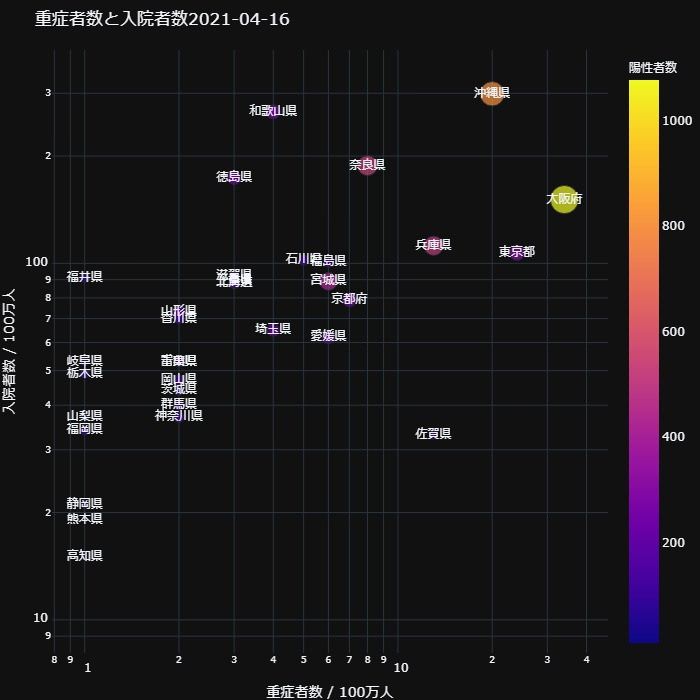
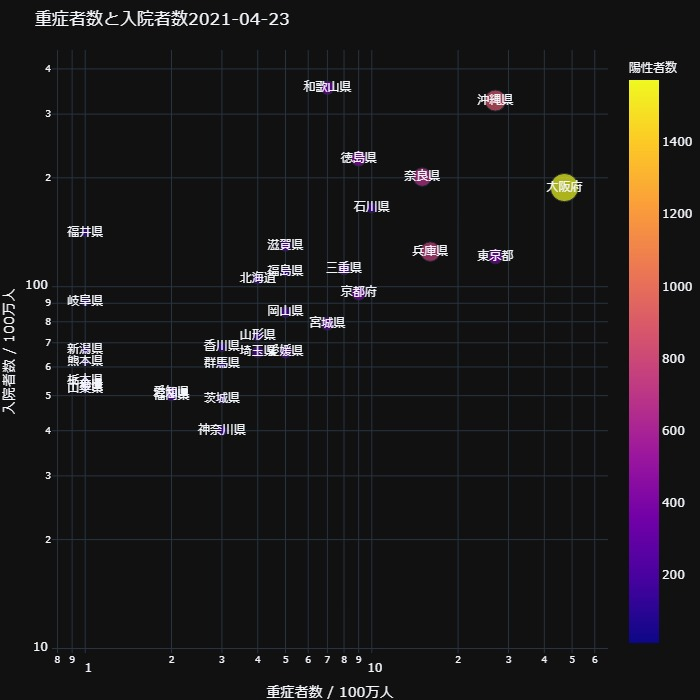
Updated with latest data.

diff --git a/docs/_includes/newpage_00023a.html b/docs/_includes/newpage_00023a.html
@@ -1,1 +1,1 @@
-<div>                            <div id="8e5283be-3799-4869-971b-aa6b225919ab" class="plotly-graph-div" style="height:700px; width:700px;"></div>            <script type="text/javascript">                                    window.PLOTLYENV=window.PLOTLYENV || {};                                    if (document.getElementById("8e5283be-3799-4869-971b-aa6b225919ab")) {                    Plotly.newPlot(                        "8e5283be-3799-4869-971b-aa6b225919ab",                        [{"hovertemplate": "\u4f7f\u7528\u7387=%{x}<br>\u975e\u5165\u9662\u6570=%{y}<br>\u967d\u6027\u8005\u6570=%{marker.color}<br>\u90fd\u9053\u5e9c\u770c\u540d=%{text}<extra></extra>", "legendgroup": "", "marker": {"color": [156, 100, 53, 425, 42, 225, 148, 105, 95, 113, 208, 143, 306, 133, 119, 99, 123, 91, 53, 153, 83, 56, 205, 128, 149, 252, 1077, 501, 533, 266, 144, 10, 128, 34, 30, 255, 128, 207, 24, 103, 90, 33, 22, 30, 58, 41, 801], "coloraxis": "coloraxis", "size": [156, 100, 53, 425, 42, 225, 148, 105, 95, 113, 208, 143, 306, 133, 119, 99, 123, 91, 53, 153, 83, 56, 205, 128, 149, 252, 1077, 501, 533, 266, 144, 10, 128, 34, 30, 255, 128, 207, 24, 103, 90, 33, 22, 30, 58, 41, 801], "sizemode": "area", "sizeref": 2.6925, "symbol": "circle"}, "mode": "markers+text", "name": "", "orientation": "v", "showlegend": false, "text": ["\u5317\u6d77\u9053", "\u9752\u68ee\u770c", "\u5ca9\u624b\u770c", "\u5bae\u57ce\u770c", "\u79cb\u7530\u770c", "\u5c71\u5f62\u770c", "\u798f\u5cf6\u770c", "\u8328\u57ce\u770c", "\u6803\u6728\u770c", "\u7fa4\u99ac\u770c", "\u57fc\u7389\u770c", "\u5343\u8449\u770c", "\u6771\u4eac\u90fd", "\u795e\u5948\u5ddd\u770c", "\u65b0\u6f5f\u770c", "\u5bcc\u5c71\u770c", "\u77f3\u5ddd\u770c", "\u798f\u4e95\u770c", "\u5c71\u68a8\u770c", "\u9577\u91ce\u770c", "\u5c90\u961c\u770c", "\u9759\u5ca1\u770c", "\u611b\u77e5\u770c", "\u4e09\u91cd\u770c", "\u6ecb\u8cc0\u770c", "\u4eac\u90fd\u5e9c", "\u5927\u962a\u5e9c", "\u5175\u5eab\u770c", "\u5948\u826f\u770c", "\u548c\u6b4c\u5c71\u770c", "\u9ce5\u53d6\u770c", "\u5cf6\u6839\u770c", "\u5ca1\u5c71\u770c", "\u5e83\u5cf6\u770c", "\u5c71\u53e3\u770c", "\u5fb3\u5cf6\u770c", "\u9999\u5ddd\u770c", "\u611b\u5a9b\u770c", "\u9ad8\u77e5\u770c", "\u798f\u5ca1\u770c", "\u4f50\u8cc0\u770c", "\u9577\u5d0e\u770c", "\u718a\u672c\u770c", "\u5927\u5206\u770c", "\u5bae\u5d0e\u770c", "\u9e7f\u5150\u5cf6\u770c", "\u6c96\u7e04\u770c"], "type": "scatter", "x": [2600, 2400, 1400, 6100, 900, 3700, 4100, 2100, 2400, 1900, 3200, 2400, 2900, 2200, 3400, 1100, 4600, 2800, 1100, 4100, 1600, 1600, 2500, 4200, 3700, 4600, 6700, 7400, 6800, 6400, 2300, 300, 2200, 1000, 900, 6600, 3300, 3200, 600, 2300, 900, 500, 700, 700, 700, 1000, 8500], "xaxis": "x", "y": [23, 29, 0, 183, 0, 127, 1, 37, 11, 8, 97, 58, 121, 69, 14, 0, 0, 0, 0, 29, 10, 23, 128, 26, 10, 111, 836, 304, 233, 0, 0, 0, 9, 2, 0, 0, 14, 122, 1, 27, 12, 10, 1, 0, 18, 1, 405], "yaxis": "y"}],                        {"coloraxis": {"colorbar": {"title": {"text": "\u967d\u6027\u8005\u6570"}}, "colorscale": [[0.0, "#0d0887"], [0.1111111111111111, "#46039f"], [0.2222222222222222, "#7201a8"], [0.3333333333333333, "#9c179e"], [0.4444444444444444, "#bd3786"], [0.5555555555555556, "#d8576b"], [0.6666666666666666, "#ed7953"], [0.7777777777777778, "#fb9f3a"], [0.8888888888888888, "#fdca26"], [1.0, "#f0f921"]]}, "height": 700, "legend": {"itemsizing": "constant", "tracegroupgap": 0}, "margin": {"b": 0, "l": 0, "r": 0, "t": 50}, "template": {"data": {"bar": [{"error_x": {"color": "#f2f5fa"}, "error_y": {"color": "#f2f5fa"}, "marker": {"line": {"color": "rgb(17,17,17)", "width": 0.5}}, "type": "bar"}], "barpolar": [{"marker": {"line": {"color": "rgb(17,17,17)", "width": 0.5}}, "type": "barpolar"}], "carpet": [{"aaxis": {"endlinecolor": "#A2B1C6", "gridcolor": "#506784", "linecolor": "#506784", "minorgridcolor": "#506784", "startlinecolor": "#A2B1C6"}, "baxis": {"endlinecolor": "#A2B1C6", "gridcolor": "#506784", "linecolor": "#506784", "minorgridcolor": "#506784", "startlinecolor": "#A2B1C6"}, "type": "carpet"}], "choropleth": [{"colorbar": {"outlinewidth": 0, "ticks": ""}, "type": "choropleth"}], "contour": [{"colorbar": {"outlinewidth": 0, "ticks": ""}, "colorscale": [[0.0, "#0d0887"], [0.1111111111111111, "#46039f"], [0.2222222222222222, "#7201a8"], [0.3333333333333333, "#9c179e"], [0.4444444444444444, "#bd3786"], [0.5555555555555556, "#d8576b"], [0.6666666666666666, "#ed7953"], [0.7777777777777778, "#fb9f3a"], [0.8888888888888888, "#fdca26"], [1.0, "#f0f921"]], "type": "contour"}], "contourcarpet": [{"colorbar": {"outlinewidth": 0, "ticks": ""}, "type": "contourcarpet"}], "heatmap": [{"colorbar": {"outlinewidth": 0, "ticks": ""}, "colorscale": [[0.0, "#0d0887"], [0.1111111111111111, "#46039f"], [0.2222222222222222, "#7201a8"], [0.3333333333333333, "#9c179e"], [0.4444444444444444, "#bd3786"], [0.5555555555555556, "#d8576b"], [0.6666666666666666, "#ed7953"], [0.7777777777777778, "#fb9f3a"], [0.8888888888888888, "#fdca26"], [1.0, "#f0f921"]], "type": "heatmap"}], "heatmapgl": [{"colorbar": {"outlinewidth": 0, "ticks": ""}, "colorscale": [[0.0, "#0d0887"], [0.1111111111111111, "#46039f"], [0.2222222222222222, "#7201a8"], [0.3333333333333333, "#9c179e"], [0.4444444444444444, "#bd3786"], [0.5555555555555556, "#d8576b"], [0.6666666666666666, "#ed7953"], [0.7777777777777778, "#fb9f3a"], [0.8888888888888888, "#fdca26"], [1.0, "#f0f921"]], "type": "heatmapgl"}], "histogram": [{"marker": {"colorbar": {"outlinewidth": 0, "ticks": ""}}, "type": "histogram"}], "histogram2d": [{"colorbar": {"outlinewidth": 0, "ticks": ""}, "colorscale": [[0.0, "#0d0887"], [0.1111111111111111, "#46039f"], [0.2222222222222222, "#7201a8"], [0.3333333333333333, "#9c179e"], [0.4444444444444444, "#bd3786"], [0.5555555555555556, "#d8576b"], [0.6666666666666666, "#ed7953"], [0.7777777777777778, "#fb9f3a"], [0.8888888888888888, "#fdca26"], [1.0, "#f0f921"]], "type": "histogram2d"}], "histogram2dcontour": [{"colorbar": {"outlinewidth": 0, "ticks": ""}, "colorscale": [[0.0, "#0d0887"], [0.1111111111111111, "#46039f"], [0.2222222222222222, "#7201a8"], [0.3333333333333333, "#9c179e"], [0.4444444444444444, "#bd3786"], [0.5555555555555556, "#d8576b"], [0.6666666666666666, "#ed7953"], [0.7777777777777778, "#fb9f3a"], [0.8888888888888888, "#fdca26"], [1.0, "#f0f921"]], "type": "histogram2dcontour"}], "mesh3d": [{"colorbar": {"outlinewidth": 0, "ticks": ""}, "type": "mesh3d"}], "parcoords": [{"line": {"colorbar": {"outlinewidth": 0, "ticks": ""}}, "type": "parcoords"}], "pie": [{"automargin": true, "type": "pie"}], "scatter": [{"marker": {"line": {"color": "#283442"}}, "type": "scatter"}], "scatter3d": [{"line": {"colorbar": {"outlinewidth": 0, "ticks": ""}}, "marker": {"colorbar": {"outlinewidth": 0, "ticks": ""}}, "type": "scatter3d"}], "scattercarpet": [{"marker": {"colorbar": {"outlinewidth": 0, "ticks": ""}}, "type": "scattercarpet"}], "scattergeo": [{"marker": {"colorbar": {"outlinewidth": 0, "ticks": ""}}, "type": "scattergeo"}], "scattergl": [{"marker": {"line": {"color": "#283442"}}, "type": "scattergl"}], "scattermapbox": [{"marker": {"colorbar": {"outlinewidth": 0, "ticks": ""}}, "type": "scattermapbox"}], "scatterpolar": [{"marker": {"colorbar": {"outlinewidth": 0, "ticks": ""}}, "type": "scatterpolar"}], "scatterpolargl": [{"marker": {"colorbar": {"outlinewidth": 0, "ticks": ""}}, "type": "scatterpolargl"}], "scatterternary": [{"marker": {"colorbar": {"outlinewidth": 0, "ticks": ""}}, "type": "scatterternary"}], "surface": [{"colorbar": {"outlinewidth": 0, "ticks": ""}, "colorscale": [[0.0, "#0d0887"], [0.1111111111111111, "#46039f"], [0.2222222222222222, "#7201a8"], [0.3333333333333333, "#9c179e"], [0.4444444444444444, "#bd3786"], [0.5555555555555556, "#d8576b"], [0.6666666666666666, "#ed7953"], [0.7777777777777778, "#fb9f3a"], [0.8888888888888888, "#fdca26"], [1.0, "#f0f921"]], "type": "surface"}], "table": [{"cells": {"fill": {"color": "#506784"}, "line": {"color": "rgb(17,17,17)"}}, "header": {"fill": {"color": "#2a3f5f"}, "line": {"color": "rgb(17,17,17)"}}, "type": "table"}]}, "layout": {"annotationdefaults": {"arrowcolor": "#f2f5fa", "arrowhead": 0, "arrowwidth": 1}, "autotypenumbers": "strict", "coloraxis": {"colorbar": {"outlinewidth": 0, "ticks": ""}}, "colorscale": {"diverging": [[0, "#8e0152"], [0.1, "#c51b7d"], [0.2, "#de77ae"], [0.3, "#f1b6da"], [0.4, "#fde0ef"], [0.5, "#f7f7f7"], [0.6, "#e6f5d0"], [0.7, "#b8e186"], [0.8, "#7fbc41"], [0.9, "#4d9221"], [1, "#276419"]], "sequential": [[0.0, "#0d0887"], [0.1111111111111111, "#46039f"], [0.2222222222222222, "#7201a8"], [0.3333333333333333, "#9c179e"], [0.4444444444444444, "#bd3786"], [0.5555555555555556, "#d8576b"], [0.6666666666666666, "#ed7953"], [0.7777777777777778, "#fb9f3a"], [0.8888888888888888, "#fdca26"], [1.0, "#f0f921"]], "sequentialminus": [[0.0, "#0d0887"], [0.1111111111111111, "#46039f"], [0.2222222222222222, "#7201a8"], [0.3333333333333333, "#9c179e"], [0.4444444444444444, "#bd3786"], [0.5555555555555556, "#d8576b"], [0.6666666666666666, "#ed7953"], [0.7777777777777778, "#fb9f3a"], [0.8888888888888888, "#fdca26"], [1.0, "#f0f921"]]}, "colorway": ["#636efa", "#EF553B", "#00cc96", "#ab63fa", "#FFA15A", "#19d3f3", "#FF6692", "#B6E880", "#FF97FF", "#FECB52"], "font": {"color": "#f2f5fa"}, "geo": {"bgcolor": "rgb(17,17,17)", "lakecolor": "rgb(17,17,17)", "landcolor": "rgb(17,17,17)", "showlakes": true, "showland": true, "subunitcolor": "#506784"}, "hoverlabel": {"align": "left"}, "hovermode": "closest", "mapbox": {"style": "dark"}, "paper_bgcolor": "rgb(17,17,17)", "plot_bgcolor": "rgb(17,17,17)", "polar": {"angularaxis": {"gridcolor": "#506784", "linecolor": "#506784", "ticks": ""}, "bgcolor": "rgb(17,17,17)", "radialaxis": {"gridcolor": "#506784", "linecolor": "#506784", "ticks": ""}}, "scene": {"xaxis": {"backgroundcolor": "rgb(17,17,17)", "gridcolor": "#506784", "gridwidth": 2, "linecolor": "#506784", "showbackground": true, "ticks": "", "zerolinecolor": "#C8D4E3"}, "yaxis": {"backgroundcolor": "rgb(17,17,17)", "gridcolor": "#506784", "gridwidth": 2, "linecolor": "#506784", "showbackground": true, "ticks": "", "zerolinecolor": "#C8D4E3"}, "zaxis": {"backgroundcolor": "rgb(17,17,17)", "gridcolor": "#506784", "gridwidth": 2, "linecolor": "#506784", "showbackground": true, "ticks": "", "zerolinecolor": "#C8D4E3"}}, "shapedefaults": {"line": {"color": "#f2f5fa"}}, "sliderdefaults": {"bgcolor": "#C8D4E3", "bordercolor": "rgb(17,17,17)", "borderwidth": 1, "tickwidth": 0}, "ternary": {"aaxis": {"gridcolor": "#506784", "linecolor": "#506784", "ticks": ""}, "baxis": {"gridcolor": "#506784", "linecolor": "#506784", "ticks": ""}, "bgcolor": "rgb(17,17,17)", "caxis": {"gridcolor": "#506784", "linecolor": "#506784", "ticks": ""}}, "title": {"x": 0.05}, "updatemenudefaults": {"bgcolor": "#506784", "borderwidth": 0}, "xaxis": {"automargin": true, "gridcolor": "#283442", "linecolor": "#506784", "ticks": "", "title": {"standoff": 15}, "zerolinecolor": "#283442", "zerolinewidth": 2}, "yaxis": {"automargin": true, "gridcolor": "#283442", "linecolor": "#506784", "ticks": "", "title": {"standoff": 15}, "zerolinecolor": "#283442", "zerolinewidth": 2}}}, "title": {"text": "\u75c5\u5e8a\u4f7f\u7528\u7387\u3068\u975e\u5165\u9662\u8005\u65702021-04-16"}, "width": 700, "xaxis": {"anchor": "y", "domain": [0.0, 1.0], "title": {"text": "\u75c5\u5e8a\u4f7f\u7528\u7387 [%]"}}, "yaxis": {"anchor": "x", "domain": [0.0, 1.0], "title": {"text": "\u975e\u5165\u9662\u8005\u6570 / 100\u4e07\u4eba"}, "type": "log"}},                        {"responsive": true}                    )                };                            </script>        </div>
+<div>                            <div id="0eb2dfb6-1591-4d71-908f-1d80eed0ddca" class="plotly-graph-div" style="height:700px; width:700px;"></div>            <script type="text/javascript">                                    window.PLOTLYENV=window.PLOTLYENV || {};                                    if (document.getElementById("0eb2dfb6-1591-4d71-908f-1d80eed0ddca")) {                    Plotly.newPlot(                        "0eb2dfb6-1591-4d71-908f-1d80eed0ddca",                        [{"hovertemplate": "\u4f7f\u7528\u7387=%{x}<br>\u975e\u5165\u9662\u6570=%{y}<br>\u967d\u6027\u8005\u6570=%{marker.color}<br>\u90fd\u9053\u5e9c\u770c\u540d=%{text}<extra></extra>", "legendgroup": "", "marker": {"color": [193, 128, 36, 327, 58, 178, 158, 151, 90, 140, 245, 186, 393, 175, 131, 125, 189, 141, 77, 189, 132, 62, 291, 269, 251, 386, 1572, 749, 673, 355, 153, 12, 206, 70, 102, 441, 144, 276, 37, 216, 124, 95, 98, 34, 49, 46, 866], "coloraxis": "coloraxis", "size": [193, 128, 36, 327, 58, 178, 158, 151, 90, 140, 245, 186, 393, 175, 131, 125, 189, 141, 77, 189, 132, 62, 291, 269, 251, 386, 1572, 749, 673, 355, 153, 12, 206, 70, 102, 441, 144, 276, 37, 216, 124, 95, 98, 34, 49, 46, 866], "sizemode": "area", "sizeref": 3.93, "symbol": "circle"}, "mode": "markers+text", "name": "", "orientation": "v", "showlegend": false, "text": ["\u5317\u6d77\u9053", "\u9752\u68ee\u770c", "\u5ca9\u624b\u770c", "\u5bae\u57ce\u770c", "\u79cb\u7530\u770c", "\u5c71\u5f62\u770c", "\u798f\u5cf6\u770c", "\u8328\u57ce\u770c", "\u6803\u6728\u770c", "\u7fa4\u99ac\u770c", "\u57fc\u7389\u770c", "\u5343\u8449\u770c", "\u6771\u4eac\u90fd", "\u795e\u5948\u5ddd\u770c", "\u65b0\u6f5f\u770c", "\u5bcc\u5c71\u770c", "\u77f3\u5ddd\u770c", "\u798f\u4e95\u770c", "\u5c71\u68a8\u770c", "\u9577\u91ce\u770c", "\u5c90\u961c\u770c", "\u9759\u5ca1\u770c", "\u611b\u77e5\u770c", "\u4e09\u91cd\u770c", "\u6ecb\u8cc0\u770c", "\u4eac\u90fd\u5e9c", "\u5927\u962a\u5e9c", "\u5175\u5eab\u770c", "\u5948\u826f\u770c", "\u548c\u6b4c\u5c71\u770c", "\u9ce5\u53d6\u770c", "\u5cf6\u6839\u770c", "\u5ca1\u5c71\u770c", "\u5e83\u5cf6\u770c", "\u5c71\u53e3\u770c", "\u5fb3\u5cf6\u770c", "\u9999\u5ddd\u770c", "\u611b\u5a9b\u770c", "\u9ad8\u77e5\u770c", "\u798f\u5ca1\u770c", "\u4f50\u8cc0\u770c", "\u9577\u5d0e\u770c", "\u718a\u672c\u770c", "\u5927\u5206\u770c", "\u5bae\u5d0e\u770c", "\u9e7f\u5150\u5cf6\u770c", "\u6c96\u7e04\u770c"], "type": "scatter", "x": [31, 28, 9, 54, 14, 37, 45, 23, 27, 29, 32, 25, 33, 21, 28, 15, 74, 44, 15, 48, 27, 17, 32, 52, 52, 54, 82, 83, 72, 86, 24, 4, 40, 16, 23, 73, 32, 34, 10, 32, 11, 14, 22, 9, 11, 15, 88], "xaxis": "x", "y": [37, 38, 0, 129, 2, 83, 15, 65, 7, 21, 128, 80, 173, 98, 41, 3, 0, 0, 0, 33, 11, 22, 194, 147, 23, 217, 1247, 533, 334, 0, 0, 0, 41, 8, 0, 0, 34, 177, 2, 72, 0, 23, 10, 0, 11, 1, 392], "yaxis": "y"}],                        {"coloraxis": {"colorbar": {"title": {"text": "\u967d\u6027\u8005\u6570"}}, "colorscale": [[0.0, "#0d0887"], [0.1111111111111111, "#46039f"], [0.2222222222222222, "#7201a8"], [0.3333333333333333, "#9c179e"], [0.4444444444444444, "#bd3786"], [0.5555555555555556, "#d8576b"], [0.6666666666666666, "#ed7953"], [0.7777777777777778, "#fb9f3a"], [0.8888888888888888, "#fdca26"], [1.0, "#f0f921"]]}, "height": 700, "legend": {"itemsizing": "constant", "tracegroupgap": 0}, "margin": {"b": 0, "l": 0, "r": 0, "t": 50}, "template": {"data": {"bar": [{"error_x": {"color": "#f2f5fa"}, "error_y": {"color": "#f2f5fa"}, "marker": {"line": {"color": "rgb(17,17,17)", "width": 0.5}}, "type": "bar"}], "barpolar": [{"marker": {"line": {"color": "rgb(17,17,17)", "width": 0.5}}, "type": "barpolar"}], "carpet": [{"aaxis": {"endlinecolor": "#A2B1C6", "gridcolor": "#506784", "linecolor": "#506784", "minorgridcolor": "#506784", "startlinecolor": "#A2B1C6"}, "baxis": {"endlinecolor": "#A2B1C6", "gridcolor": "#506784", "linecolor": "#506784", "minorgridcolor": "#506784", "startlinecolor": "#A2B1C6"}, "type": "carpet"}], "choropleth": [{"colorbar": {"outlinewidth": 0, "ticks": ""}, "type": "choropleth"}], "contour": [{"colorbar": {"outlinewidth": 0, "ticks": ""}, "colorscale": [[0.0, "#0d0887"], [0.1111111111111111, "#46039f"], [0.2222222222222222, "#7201a8"], [0.3333333333333333, "#9c179e"], [0.4444444444444444, "#bd3786"], [0.5555555555555556, "#d8576b"], [0.6666666666666666, "#ed7953"], [0.7777777777777778, "#fb9f3a"], [0.8888888888888888, "#fdca26"], [1.0, "#f0f921"]], "type": "contour"}], "contourcarpet": [{"colorbar": {"outlinewidth": 0, "ticks": ""}, "type": "contourcarpet"}], "heatmap": [{"colorbar": {"outlinewidth": 0, "ticks": ""}, "colorscale": [[0.0, "#0d0887"], [0.1111111111111111, "#46039f"], [0.2222222222222222, "#7201a8"], [0.3333333333333333, "#9c179e"], [0.4444444444444444, "#bd3786"], [0.5555555555555556, "#d8576b"], [0.6666666666666666, "#ed7953"], [0.7777777777777778, "#fb9f3a"], [0.8888888888888888, "#fdca26"], [1.0, "#f0f921"]], "type": "heatmap"}], "heatmapgl": [{"colorbar": {"outlinewidth": 0, "ticks": ""}, "colorscale": [[0.0, "#0d0887"], [0.1111111111111111, "#46039f"], [0.2222222222222222, "#7201a8"], [0.3333333333333333, "#9c179e"], [0.4444444444444444, "#bd3786"], [0.5555555555555556, "#d8576b"], [0.6666666666666666, "#ed7953"], [0.7777777777777778, "#fb9f3a"], [0.8888888888888888, "#fdca26"], [1.0, "#f0f921"]], "type": "heatmapgl"}], "histogram": [{"marker": {"colorbar": {"outlinewidth": 0, "ticks": ""}}, "type": "histogram"}], "histogram2d": [{"colorbar": {"outlinewidth": 0, "ticks": ""}, "colorscale": [[0.0, "#0d0887"], [0.1111111111111111, "#46039f"], [0.2222222222222222, "#7201a8"], [0.3333333333333333, "#9c179e"], [0.4444444444444444, "#bd3786"], [0.5555555555555556, "#d8576b"], [0.6666666666666666, "#ed7953"], [0.7777777777777778, "#fb9f3a"], [0.8888888888888888, "#fdca26"], [1.0, "#f0f921"]], "type": "histogram2d"}], "histogram2dcontour": [{"colorbar": {"outlinewidth": 0, "ticks": ""}, "colorscale": [[0.0, "#0d0887"], [0.1111111111111111, "#46039f"], [0.2222222222222222, "#7201a8"], [0.3333333333333333, "#9c179e"], [0.4444444444444444, "#bd3786"], [0.5555555555555556, "#d8576b"], [0.6666666666666666, "#ed7953"], [0.7777777777777778, "#fb9f3a"], [0.8888888888888888, "#fdca26"], [1.0, "#f0f921"]], "type": "histogram2dcontour"}], "mesh3d": [{"colorbar": {"outlinewidth": 0, "ticks": ""}, "type": "mesh3d"}], "parcoords": [{"line": {"colorbar": {"outlinewidth": 0, "ticks": ""}}, "type": "parcoords"}], "pie": [{"automargin": true, "type": "pie"}], "scatter": [{"marker": {"line": {"color": "#283442"}}, "type": "scatter"}], "scatter3d": [{"line": {"colorbar": {"outlinewidth": 0, "ticks": ""}}, "marker": {"colorbar": {"outlinewidth": 0, "ticks": ""}}, "type": "scatter3d"}], "scattercarpet": [{"marker": {"colorbar": {"outlinewidth": 0, "ticks": ""}}, "type": "scattercarpet"}], "scattergeo": [{"marker": {"colorbar": {"outlinewidth": 0, "ticks": ""}}, "type": "scattergeo"}], "scattergl": [{"marker": {"line": {"color": "#283442"}}, "type": "scattergl"}], "scattermapbox": [{"marker": {"colorbar": {"outlinewidth": 0, "ticks": ""}}, "type": "scattermapbox"}], "scatterpolar": [{"marker": {"colorbar": {"outlinewidth": 0, "ticks": ""}}, "type": "scatterpolar"}], "scatterpolargl": [{"marker": {"colorbar": {"outlinewidth": 0, "ticks": ""}}, "type": "scatterpolargl"}], "scatterternary": [{"marker": {"colorbar": {"outlinewidth": 0, "ticks": ""}}, "type": "scatterternary"}], "surface": [{"colorbar": {"outlinewidth": 0, "ticks": ""}, "colorscale": [[0.0, "#0d0887"], [0.1111111111111111, "#46039f"], [0.2222222222222222, "#7201a8"], [0.3333333333333333, "#9c179e"], [0.4444444444444444, "#bd3786"], [0.5555555555555556, "#d8576b"], [0.6666666666666666, "#ed7953"], [0.7777777777777778, "#fb9f3a"], [0.8888888888888888, "#fdca26"], [1.0, "#f0f921"]], "type": "surface"}], "table": [{"cells": {"fill": {"color": "#506784"}, "line": {"color": "rgb(17,17,17)"}}, "header": {"fill": {"color": "#2a3f5f"}, "line": {"color": "rgb(17,17,17)"}}, "type": "table"}]}, "layout": {"annotationdefaults": {"arrowcolor": "#f2f5fa", "arrowhead": 0, "arrowwidth": 1}, "autotypenumbers": "strict", "coloraxis": {"colorbar": {"outlinewidth": 0, "ticks": ""}}, "colorscale": {"diverging": [[0, "#8e0152"], [0.1, "#c51b7d"], [0.2, "#de77ae"], [0.3, "#f1b6da"], [0.4, "#fde0ef"], [0.5, "#f7f7f7"], [0.6, "#e6f5d0"], [0.7, "#b8e186"], [0.8, "#7fbc41"], [0.9, "#4d9221"], [1, "#276419"]], "sequential": [[0.0, "#0d0887"], [0.1111111111111111, "#46039f"], [0.2222222222222222, "#7201a8"], [0.3333333333333333, "#9c179e"], [0.4444444444444444, "#bd3786"], [0.5555555555555556, "#d8576b"], [0.6666666666666666, "#ed7953"], [0.7777777777777778, "#fb9f3a"], [0.8888888888888888, "#fdca26"], [1.0, "#f0f921"]], "sequentialminus": [[0.0, "#0d0887"], [0.1111111111111111, "#46039f"], [0.2222222222222222, "#7201a8"], [0.3333333333333333, "#9c179e"], [0.4444444444444444, "#bd3786"], [0.5555555555555556, "#d8576b"], [0.6666666666666666, "#ed7953"], [0.7777777777777778, "#fb9f3a"], [0.8888888888888888, "#fdca26"], [1.0, "#f0f921"]]}, "colorway": ["#636efa", "#EF553B", "#00cc96", "#ab63fa", "#FFA15A", "#19d3f3", "#FF6692", "#B6E880", "#FF97FF", "#FECB52"], "font": {"color": "#f2f5fa"}, "geo": {"bgcolor": "rgb(17,17,17)", "lakecolor": "rgb(17,17,17)", "landcolor": "rgb(17,17,17)", "showlakes": true, "showland": true, "subunitcolor": "#506784"}, "hoverlabel": {"align": "left"}, "hovermode": "closest", "mapbox": {"style": "dark"}, "paper_bgcolor": "rgb(17,17,17)", "plot_bgcolor": "rgb(17,17,17)", "polar": {"angularaxis": {"gridcolor": "#506784", "linecolor": "#506784", "ticks": ""}, "bgcolor": "rgb(17,17,17)", "radialaxis": {"gridcolor": "#506784", "linecolor": "#506784", "ticks": ""}}, "scene": {"xaxis": {"backgroundcolor": "rgb(17,17,17)", "gridcolor": "#506784", "gridwidth": 2, "linecolor": "#506784", "showbackground": true, "ticks": "", "zerolinecolor": "#C8D4E3"}, "yaxis": {"backgroundcolor": "rgb(17,17,17)", "gridcolor": "#506784", "gridwidth": 2, "linecolor": "#506784", "showbackground": true, "ticks": "", "zerolinecolor": "#C8D4E3"}, "zaxis": {"backgroundcolor": "rgb(17,17,17)", "gridcolor": "#506784", "gridwidth": 2, "linecolor": "#506784", "showbackground": true, "ticks": "", "zerolinecolor": "#C8D4E3"}}, "shapedefaults": {"line": {"color": "#f2f5fa"}}, "sliderdefaults": {"bgcolor": "#C8D4E3", "bordercolor": "rgb(17,17,17)", "borderwidth": 1, "tickwidth": 0}, "ternary": {"aaxis": {"gridcolor": "#506784", "linecolor": "#506784", "ticks": ""}, "baxis": {"gridcolor": "#506784", "linecolor": "#506784", "ticks": ""}, "bgcolor": "rgb(17,17,17)", "caxis": {"gridcolor": "#506784", "linecolor": "#506784", "ticks": ""}}, "title": {"x": 0.05}, "updatemenudefaults": {"bgcolor": "#506784", "borderwidth": 0}, "xaxis": {"automargin": true, "gridcolor": "#283442", "linecolor": "#506784", "ticks": "", "title": {"standoff": 15}, "zerolinecolor": "#283442", "zerolinewidth": 2}, "yaxis": {"automargin": true, "gridcolor": "#283442", "linecolor": "#506784", "ticks": "", "title": {"standoff": 15}, "zerolinecolor": "#283442", "zerolinewidth": 2}}}, "title": {"text": "\u75c5\u5e8a\u4f7f\u7528\u7387\u3068\u975e\u5165\u9662\u8005\u65702021-04-23"}, "width": 700, "xaxis": {"anchor": "y", "domain": [0.0, 1.0], "title": {"text": "\u75c5\u5e8a\u4f7f\u7528\u7387 [%]"}}, "yaxis": {"anchor": "x", "domain": [0.0, 1.0], "title": {"text": "\u975e\u5165\u9662\u8005\u6570 / 100\u4e07\u4eba"}, "type": "log"}},                        {"responsive": true}                    )                };                            </script>        </div>

diff --git a/docs/_includes/newpage_00023b.html b/docs/_includes/newpage_00023b.html
@@ -1,1 +1,1 @@
-<div>                            <div id="47320995-ea54-44ca-af6a-603a0d520d64" class="plotly-graph-div" style="height:700px; width:700px;"></div>            <script type="text/javascript">                                    window.PLOTLYENV=window.PLOTLYENV || {};                                    if (document.getElementById("47320995-ea54-44ca-af6a-603a0d520d64")) {                    Plotly.newPlot(                        "47320995-ea54-44ca-af6a-603a0d520d64",                        [{"hovertemplate": "\u91cd\u75c7\u8005\u6570=%{x}<br>\u5165\u9662\u8005\u6570=%{y}<br>\u967d\u6027\u8005\u6570=%{marker.color}<br>\u90fd\u9053\u5e9c\u770c\u540d=%{text}<extra></extra>", "legendgroup": "", "marker": {"color": [156, 100, 53, 425, 42, 225, 148, 105, 95, 113, 208, 143, 306, 133, 119, 99, 123, 91, 53, 153, 83, 56, 205, 128, 149, 252, 1077, 501, 533, 266, 144, 10, 128, 34, 30, 255, 128, 207, 24, 103, 90, 33, 22, 30, 58, 41, 801], "coloraxis": "coloraxis", "size": [156, 100, 53, 425, 42, 225, 148, 105, 95, 113, 208, 143, 306, 133, 119, 99, 123, 91, 53, 153, 83, 56, 205, 128, 149, 252, 1077, 501, 533, 266, 144, 10, 128, 34, 30, 255, 128, 207, 24, 103, 90, 33, 22, 30, 58, 41, 801], "sizemode": "area", "sizeref": 2.6925, "symbol": "circle"}, "mode": "markers+text", "name": "", "orientation": "v", "showlegend": false, "text": ["\u5317\u6d77\u9053", "\u9752\u68ee\u770c", "\u5ca9\u624b\u770c", "\u5bae\u57ce\u770c", "\u79cb\u7530\u770c", "\u5c71\u5f62\u770c", "\u798f\u5cf6\u770c", "\u8328\u57ce\u770c", "\u6803\u6728\u770c", "\u7fa4\u99ac\u770c", "\u57fc\u7389\u770c", "\u5343\u8449\u770c", "\u6771\u4eac\u90fd", "\u795e\u5948\u5ddd\u770c", "\u65b0\u6f5f\u770c", "\u5bcc\u5c71\u770c", "\u77f3\u5ddd\u770c", "\u798f\u4e95\u770c", "\u5c71\u68a8\u770c", "\u9577\u91ce\u770c", "\u5c90\u961c\u770c", "\u9759\u5ca1\u770c", "\u611b\u77e5\u770c", "\u4e09\u91cd\u770c", "\u6ecb\u8cc0\u770c", "\u4eac\u90fd\u5e9c", "\u5927\u962a\u5e9c", "\u5175\u5eab\u770c", "\u5948\u826f\u770c", "\u548c\u6b4c\u5c71\u770c", "\u9ce5\u53d6\u770c", "\u5cf6\u6839\u770c", "\u5ca1\u5c71\u770c", "\u5e83\u5cf6\u770c", "\u5c71\u53e3\u770c", "\u5fb3\u5cf6\u770c", "\u9999\u5ddd\u770c", "\u611b\u5a9b\u770c", "\u9ad8\u77e5\u770c", "\u798f\u5ca1\u770c", "\u4f50\u8cc0\u770c", "\u9577\u5d0e\u770c", "\u718a\u672c\u770c", "\u5927\u5206\u770c", "\u5bae\u5d0e\u770c", "\u9e7f\u5150\u5cf6\u770c", "\u6c96\u7e04\u770c"], "type": "scatter", "x": [3, 0, 0, 6, 0, 2, 6, 2, 1, 2, 4, 2, 24, 2, 0, 2, 5, 1, 1, 0, 1, 1, 0, 3, 3, 7, 34, 13, 8, 4, 0, 0, 2, 0, 0, 3, 2, 6, 1, 1, 13, 0, 1, 0, 0, 0, 20], "xaxis": "x", "y": [88, 35, 40, 89, 19, 73, 101, 44, 49, 40, 65, 53, 107, 37, 82, 53, 102, 91, 37, 84, 53, 21, 40, 89, 92, 79, 151, 112, 188, 266, 127, 10, 47, 16, 29, 174, 70, 62, 15, 34, 33, 14, 19, 23, 19, 23, 299], "yaxis": "y"}],                        {"coloraxis": {"colorbar": {"title": {"text": "\u967d\u6027\u8005\u6570"}}, "colorscale": [[0.0, "#0d0887"], [0.1111111111111111, "#46039f"], [0.2222222222222222, "#7201a8"], [0.3333333333333333, "#9c179e"], [0.4444444444444444, "#bd3786"], [0.5555555555555556, "#d8576b"], [0.6666666666666666, "#ed7953"], [0.7777777777777778, "#fb9f3a"], [0.8888888888888888, "#fdca26"], [1.0, "#f0f921"]]}, "height": 700, "legend": {"itemsizing": "constant", "tracegroupgap": 0}, "margin": {"b": 0, "l": 0, "r": 0, "t": 50}, "template": {"data": {"bar": [{"error_x": {"color": "#f2f5fa"}, "error_y": {"color": "#f2f5fa"}, "marker": {"line": {"color": "rgb(17,17,17)", "width": 0.5}}, "type": "bar"}], "barpolar": [{"marker": {"line": {"color": "rgb(17,17,17)", "width": 0.5}}, "type": "barpolar"}], "carpet": [{"aaxis": {"endlinecolor": "#A2B1C6", "gridcolor": "#506784", "linecolor": "#506784", "minorgridcolor": "#506784", "startlinecolor": "#A2B1C6"}, "baxis": {"endlinecolor": "#A2B1C6", "gridcolor": "#506784", "linecolor": "#506784", "minorgridcolor": "#506784", "startlinecolor": "#A2B1C6"}, "type": "carpet"}], "choropleth": [{"colorbar": {"outlinewidth": 0, "ticks": ""}, "type": "choropleth"}], "contour": [{"colorbar": {"outlinewidth": 0, "ticks": ""}, "colorscale": [[0.0, "#0d0887"], [0.1111111111111111, "#46039f"], [0.2222222222222222, "#7201a8"], [0.3333333333333333, "#9c179e"], [0.4444444444444444, "#bd3786"], [0.5555555555555556, "#d8576b"], [0.6666666666666666, "#ed7953"], [0.7777777777777778, "#fb9f3a"], [0.8888888888888888, "#fdca26"], [1.0, "#f0f921"]], "type": "contour"}], "contourcarpet": [{"colorbar": {"outlinewidth": 0, "ticks": ""}, "type": "contourcarpet"}], "heatmap": [{"colorbar": {"outlinewidth": 0, "ticks": ""}, "colorscale": [[0.0, "#0d0887"], [0.1111111111111111, "#46039f"], [0.2222222222222222, "#7201a8"], [0.3333333333333333, "#9c179e"], [0.4444444444444444, "#bd3786"], [0.5555555555555556, "#d8576b"], [0.6666666666666666, "#ed7953"], [0.7777777777777778, "#fb9f3a"], [0.8888888888888888, "#fdca26"], [1.0, "#f0f921"]], "type": "heatmap"}], "heatmapgl": [{"colorbar": {"outlinewidth": 0, "ticks": ""}, "colorscale": [[0.0, "#0d0887"], [0.1111111111111111, "#46039f"], [0.2222222222222222, "#7201a8"], [0.3333333333333333, "#9c179e"], [0.4444444444444444, "#bd3786"], [0.5555555555555556, "#d8576b"], [0.6666666666666666, "#ed7953"], [0.7777777777777778, "#fb9f3a"], [0.8888888888888888, "#fdca26"], [1.0, "#f0f921"]], "type": "heatmapgl"}], "histogram": [{"marker": {"colorbar": {"outlinewidth": 0, "ticks": ""}}, "type": "histogram"}], "histogram2d": [{"colorbar": {"outlinewidth": 0, "ticks": ""}, "colorscale": [[0.0, "#0d0887"], [0.1111111111111111, "#46039f"], [0.2222222222222222, "#7201a8"], [0.3333333333333333, "#9c179e"], [0.4444444444444444, "#bd3786"], [0.5555555555555556, "#d8576b"], [0.6666666666666666, "#ed7953"], [0.7777777777777778, "#fb9f3a"], [0.8888888888888888, "#fdca26"], [1.0, "#f0f921"]], "type": "histogram2d"}], "histogram2dcontour": [{"colorbar": {"outlinewidth": 0, "ticks": ""}, "colorscale": [[0.0, "#0d0887"], [0.1111111111111111, "#46039f"], [0.2222222222222222, "#7201a8"], [0.3333333333333333, "#9c179e"], [0.4444444444444444, "#bd3786"], [0.5555555555555556, "#d8576b"], [0.6666666666666666, "#ed7953"], [0.7777777777777778, "#fb9f3a"], [0.8888888888888888, "#fdca26"], [1.0, "#f0f921"]], "type": "histogram2dcontour"}], "mesh3d": [{"colorbar": {"outlinewidth": 0, "ticks": ""}, "type": "mesh3d"}], "parcoords": [{"line": {"colorbar": {"outlinewidth": 0, "ticks": ""}}, "type": "parcoords"}], "pie": [{"automargin": true, "type": "pie"}], "scatter": [{"marker": {"line": {"color": "#283442"}}, "type": "scatter"}], "scatter3d": [{"line": {"colorbar": {"outlinewidth": 0, "ticks": ""}}, "marker": {"colorbar": {"outlinewidth": 0, "ticks": ""}}, "type": "scatter3d"}], "scattercarpet": [{"marker": {"colorbar": {"outlinewidth": 0, "ticks": ""}}, "type": "scattercarpet"}], "scattergeo": [{"marker": {"colorbar": {"outlinewidth": 0, "ticks": ""}}, "type": "scattergeo"}], "scattergl": [{"marker": {"line": {"color": "#283442"}}, "type": "scattergl"}], "scattermapbox": [{"marker": {"colorbar": {"outlinewidth": 0, "ticks": ""}}, "type": "scattermapbox"}], "scatterpolar": [{"marker": {"colorbar": {"outlinewidth": 0, "ticks": ""}}, "type": "scatterpolar"}], "scatterpolargl": [{"marker": {"colorbar": {"outlinewidth": 0, "ticks": ""}}, "type": "scatterpolargl"}], "scatterternary": [{"marker": {"colorbar": {"outlinewidth": 0, "ticks": ""}}, "type": "scatterternary"}], "surface": [{"colorbar": {"outlinewidth": 0, "ticks": ""}, "colorscale": [[0.0, "#0d0887"], [0.1111111111111111, "#46039f"], [0.2222222222222222, "#7201a8"], [0.3333333333333333, "#9c179e"], [0.4444444444444444, "#bd3786"], [0.5555555555555556, "#d8576b"], [0.6666666666666666, "#ed7953"], [0.7777777777777778, "#fb9f3a"], [0.8888888888888888, "#fdca26"], [1.0, "#f0f921"]], "type": "surface"}], "table": [{"cells": {"fill": {"color": "#506784"}, "line": {"color": "rgb(17,17,17)"}}, "header": {"fill": {"color": "#2a3f5f"}, "line": {"color": "rgb(17,17,17)"}}, "type": "table"}]}, "layout": {"annotationdefaults": {"arrowcolor": "#f2f5fa", "arrowhead": 0, "arrowwidth": 1}, "autotypenumbers": "strict", "coloraxis": {"colorbar": {"outlinewidth": 0, "ticks": ""}}, "colorscale": {"diverging": [[0, "#8e0152"], [0.1, "#c51b7d"], [0.2, "#de77ae"], [0.3, "#f1b6da"], [0.4, "#fde0ef"], [0.5, "#f7f7f7"], [0.6, "#e6f5d0"], [0.7, "#b8e186"], [0.8, "#7fbc41"], [0.9, "#4d9221"], [1, "#276419"]], "sequential": [[0.0, "#0d0887"], [0.1111111111111111, "#46039f"], [0.2222222222222222, "#7201a8"], [0.3333333333333333, "#9c179e"], [0.4444444444444444, "#bd3786"], [0.5555555555555556, "#d8576b"], [0.6666666666666666, "#ed7953"], [0.7777777777777778, "#fb9f3a"], [0.8888888888888888, "#fdca26"], [1.0, "#f0f921"]], "sequentialminus": [[0.0, "#0d0887"], [0.1111111111111111, "#46039f"], [0.2222222222222222, "#7201a8"], [0.3333333333333333, "#9c179e"], [0.4444444444444444, "#bd3786"], [0.5555555555555556, "#d8576b"], [0.6666666666666666, "#ed7953"], [0.7777777777777778, "#fb9f3a"], [0.8888888888888888, "#fdca26"], [1.0, "#f0f921"]]}, "colorway": ["#636efa", "#EF553B", "#00cc96", "#ab63fa", "#FFA15A", "#19d3f3", "#FF6692", "#B6E880", "#FF97FF", "#FECB52"], "font": {"color": "#f2f5fa"}, "geo": {"bgcolor": "rgb(17,17,17)", "lakecolor": "rgb(17,17,17)", "landcolor": "rgb(17,17,17)", "showlakes": true, "showland": true, "subunitcolor": "#506784"}, "hoverlabel": {"align": "left"}, "hovermode": "closest", "mapbox": {"style": "dark"}, "paper_bgcolor": "rgb(17,17,17)", "plot_bgcolor": "rgb(17,17,17)", "polar": {"angularaxis": {"gridcolor": "#506784", "linecolor": "#506784", "ticks": ""}, "bgcolor": "rgb(17,17,17)", "radialaxis": {"gridcolor": "#506784", "linecolor": "#506784", "ticks": ""}}, "scene": {"xaxis": {"backgroundcolor": "rgb(17,17,17)", "gridcolor": "#506784", "gridwidth": 2, "linecolor": "#506784", "showbackground": true, "ticks": "", "zerolinecolor": "#C8D4E3"}, "yaxis": {"backgroundcolor": "rgb(17,17,17)", "gridcolor": "#506784", "gridwidth": 2, "linecolor": "#506784", "showbackground": true, "ticks": "", "zerolinecolor": "#C8D4E3"}, "zaxis": {"backgroundcolor": "rgb(17,17,17)", "gridcolor": "#506784", "gridwidth": 2, "linecolor": "#506784", "showbackground": true, "ticks": "", "zerolinecolor": "#C8D4E3"}}, "shapedefaults": {"line": {"color": "#f2f5fa"}}, "sliderdefaults": {"bgcolor": "#C8D4E3", "bordercolor": "rgb(17,17,17)", "borderwidth": 1, "tickwidth": 0}, "ternary": {"aaxis": {"gridcolor": "#506784", "linecolor": "#506784", "ticks": ""}, "baxis": {"gridcolor": "#506784", "linecolor": "#506784", "ticks": ""}, "bgcolor": "rgb(17,17,17)", "caxis": {"gridcolor": "#506784", "linecolor": "#506784", "ticks": ""}}, "title": {"x": 0.05}, "updatemenudefaults": {"bgcolor": "#506784", "borderwidth": 0}, "xaxis": {"automargin": true, "gridcolor": "#283442", "linecolor": "#506784", "ticks": "", "title": {"standoff": 15}, "zerolinecolor": "#283442", "zerolinewidth": 2}, "yaxis": {"automargin": true, "gridcolor": "#283442", "linecolor": "#506784", "ticks": "", "title": {"standoff": 15}, "zerolinecolor": "#283442", "zerolinewidth": 2}}}, "title": {"text": "\u91cd\u75c7\u8005\u6570\u3068\u5165\u9662\u8005\u65702021-04-16"}, "width": 700, "xaxis": {"anchor": "y", "domain": [0.0, 1.0], "title": {"text": "\u91cd\u75c7\u8005\u6570 / 100\u4e07\u4eba"}, "type": "log"}, "yaxis": {"anchor": "x", "domain": [0.0, 1.0], "title": {"text": "\u5165\u9662\u8005\u6570 / 100\u4e07\u4eba"}, "type": "log"}},                        {"responsive": true}                    )                };                            </script>        </div>
+<div>                            <div id="a9f241d9-5549-4a30-a862-c31b43b580ca" class="plotly-graph-div" style="height:700px; width:700px;"></div>            <script type="text/javascript">                                    window.PLOTLYENV=window.PLOTLYENV || {};                                    if (document.getElementById("a9f241d9-5549-4a30-a862-c31b43b580ca")) {                    Plotly.newPlot(                        "a9f241d9-5549-4a30-a862-c31b43b580ca",                        [{"hovertemplate": "\u91cd\u75c7\u8005\u6570=%{x}<br>\u5165\u9662\u8005\u6570=%{y}<br>\u967d\u6027\u8005\u6570=%{marker.color}<br>\u90fd\u9053\u5e9c\u770c\u540d=%{text}<extra></extra>", "legendgroup": "", "marker": {"color": [193, 128, 36, 327, 58, 178, 158, 151, 90, 140, 245, 186, 393, 175, 131, 125, 189, 141, 77, 189, 132, 62, 291, 269, 251, 386, 1572, 749, 673, 355, 153, 12, 206, 70, 102, 441, 144, 276, 37, 216, 124, 95, 98, 34, 49, 46, 866], "coloraxis": "coloraxis", "size": [193, 128, 36, 327, 58, 178, 158, 151, 90, 140, 245, 186, 393, 175, 131, 125, 189, 141, 77, 189, 132, 62, 291, 269, 251, 386, 1572, 749, 673, 355, 153, 12, 206, 70, 102, 441, 144, 276, 37, 216, 124, 95, 98, 34, 49, 46, 866], "sizemode": "area", "sizeref": 3.93, "symbol": "circle"}, "mode": "markers+text", "name": "", "orientation": "v", "showlegend": false, "text": ["\u5317\u6d77\u9053", "\u9752\u68ee\u770c", "\u5ca9\u624b\u770c", "\u5bae\u57ce\u770c", "\u79cb\u7530\u770c", "\u5c71\u5f62\u770c", "\u798f\u5cf6\u770c", "\u8328\u57ce\u770c", "\u6803\u6728\u770c", "\u7fa4\u99ac\u770c", "\u57fc\u7389\u770c", "\u5343\u8449\u770c", "\u6771\u4eac\u90fd", "\u795e\u5948\u5ddd\u770c", "\u65b0\u6f5f\u770c", "\u5bcc\u5c71\u770c", "\u77f3\u5ddd\u770c", "\u798f\u4e95\u770c", "\u5c71\u68a8\u770c", "\u9577\u91ce\u770c", "\u5c90\u961c\u770c", "\u9759\u5ca1\u770c", "\u611b\u77e5\u770c", "\u4e09\u91cd\u770c", "\u6ecb\u8cc0\u770c", "\u4eac\u90fd\u5e9c", "\u5927\u962a\u5e9c", "\u5175\u5eab\u770c", "\u5948\u826f\u770c", "\u548c\u6b4c\u5c71\u770c", "\u9ce5\u53d6\u770c", "\u5cf6\u6839\u770c", "\u5ca1\u5c71\u770c", "\u5e83\u5cf6\u770c", "\u5c71\u53e3\u770c", "\u5fb3\u5cf6\u770c", "\u9999\u5ddd\u770c", "\u611b\u5a9b\u770c", "\u9ad8\u77e5\u770c", "\u798f\u5ca1\u770c", "\u4f50\u8cc0\u770c", "\u9577\u5d0e\u770c", "\u718a\u672c\u770c", "\u5927\u5206\u770c", "\u5bae\u5d0e\u770c", "\u9e7f\u5150\u5cf6\u770c", "\u6c96\u7e04\u770c"], "type": "scatter", "x": [4, 0, 0, 7, 0, 4, 5, 3, 1, 3, 4, 1, 27, 3, 1, 0, 10, 1, 1, 0, 1, 0, 2, 8, 5, 9, 47, 16, 15, 7, 0, 0, 5, 0, 0, 9, 3, 5, 0, 2, 0, 0, 1, 0, 0, 0, 27], "xaxis": "x", "y": [105, 42, 28, 79, 30, 73, 110, 49, 55, 61, 66, 53, 121, 40, 67, 68, 165, 141, 52, 99, 91, 22, 51, 112, 130, 96, 188, 125, 201, 355, 130, 12, 85, 26, 78, 226, 68, 66, 26, 50, 43, 42, 62, 27, 28, 35, 327], "yaxis": "y"}],                        {"coloraxis": {"colorbar": {"title": {"text": "\u967d\u6027\u8005\u6570"}}, "colorscale": [[0.0, "#0d0887"], [0.1111111111111111, "#46039f"], [0.2222222222222222, "#7201a8"], [0.3333333333333333, "#9c179e"], [0.4444444444444444, "#bd3786"], [0.5555555555555556, "#d8576b"], [0.6666666666666666, "#ed7953"], [0.7777777777777778, "#fb9f3a"], [0.8888888888888888, "#fdca26"], [1.0, "#f0f921"]]}, "height": 700, "legend": {"itemsizing": "constant", "tracegroupgap": 0}, "margin": {"b": 0, "l": 0, "r": 0, "t": 50}, "template": {"data": {"bar": [{"error_x": {"color": "#f2f5fa"}, "error_y": {"color": "#f2f5fa"}, "marker": {"line": {"color": "rgb(17,17,17)", "width": 0.5}}, "type": "bar"}], "barpolar": [{"marker": {"line": {"color": "rgb(17,17,17)", "width": 0.5}}, "type": "barpolar"}], "carpet": [{"aaxis": {"endlinecolor": "#A2B1C6", "gridcolor": "#506784", "linecolor": "#506784", "minorgridcolor": "#506784", "startlinecolor": "#A2B1C6"}, "baxis": {"endlinecolor": "#A2B1C6", "gridcolor": "#506784", "linecolor": "#506784", "minorgridcolor": "#506784", "startlinecolor": "#A2B1C6"}, "type": "carpet"}], "choropleth": [{"colorbar": {"outlinewidth": 0, "ticks": ""}, "type": "choropleth"}], "contour": [{"colorbar": {"outlinewidth": 0, "ticks": ""}, "colorscale": [[0.0, "#0d0887"], [0.1111111111111111, "#46039f"], [0.2222222222222222, "#7201a8"], [0.3333333333333333, "#9c179e"], [0.4444444444444444, "#bd3786"], [0.5555555555555556, "#d8576b"], [0.6666666666666666, "#ed7953"], [0.7777777777777778, "#fb9f3a"], [0.8888888888888888, "#fdca26"], [1.0, "#f0f921"]], "type": "contour"}], "contourcarpet": [{"colorbar": {"outlinewidth": 0, "ticks": ""}, "type": "contourcarpet"}], "heatmap": [{"colorbar": {"outlinewidth": 0, "ticks": ""}, "colorscale": [[0.0, "#0d0887"], [0.1111111111111111, "#46039f"], [0.2222222222222222, "#7201a8"], [0.3333333333333333, "#9c179e"], [0.4444444444444444, "#bd3786"], [0.5555555555555556, "#d8576b"], [0.6666666666666666, "#ed7953"], [0.7777777777777778, "#fb9f3a"], [0.8888888888888888, "#fdca26"], [1.0, "#f0f921"]], "type": "heatmap"}], "heatmapgl": [{"colorbar": {"outlinewidth": 0, "ticks": ""}, "colorscale": [[0.0, "#0d0887"], [0.1111111111111111, "#46039f"], [0.2222222222222222, "#7201a8"], [0.3333333333333333, "#9c179e"], [0.4444444444444444, "#bd3786"], [0.5555555555555556, "#d8576b"], [0.6666666666666666, "#ed7953"], [0.7777777777777778, "#fb9f3a"], [0.8888888888888888, "#fdca26"], [1.0, "#f0f921"]], "type": "heatmapgl"}], "histogram": [{"marker": {"colorbar": {"outlinewidth": 0, "ticks": ""}}, "type": "histogram"}], "histogram2d": [{"colorbar": {"outlinewidth": 0, "ticks": ""}, "colorscale": [[0.0, "#0d0887"], [0.1111111111111111, "#46039f"], [0.2222222222222222, "#7201a8"], [0.3333333333333333, "#9c179e"], [0.4444444444444444, "#bd3786"], [0.5555555555555556, "#d8576b"], [0.6666666666666666, "#ed7953"], [0.7777777777777778, "#fb9f3a"], [0.8888888888888888, "#fdca26"], [1.0, "#f0f921"]], "type": "histogram2d"}], "histogram2dcontour": [{"colorbar": {"outlinewidth": 0, "ticks": ""}, "colorscale": [[0.0, "#0d0887"], [0.1111111111111111, "#46039f"], [0.2222222222222222, "#7201a8"], [0.3333333333333333, "#9c179e"], [0.4444444444444444, "#bd3786"], [0.5555555555555556, "#d8576b"], [0.6666666666666666, "#ed7953"], [0.7777777777777778, "#fb9f3a"], [0.8888888888888888, "#fdca26"], [1.0, "#f0f921"]], "type": "histogram2dcontour"}], "mesh3d": [{"colorbar": {"outlinewidth": 0, "ticks": ""}, "type": "mesh3d"}], "parcoords": [{"line": {"colorbar": {"outlinewidth": 0, "ticks": ""}}, "type": "parcoords"}], "pie": [{"automargin": true, "type": "pie"}], "scatter": [{"marker": {"line": {"color": "#283442"}}, "type": "scatter"}], "scatter3d": [{"line": {"colorbar": {"outlinewidth": 0, "ticks": ""}}, "marker": {"colorbar": {"outlinewidth": 0, "ticks": ""}}, "type": "scatter3d"}], "scattercarpet": [{"marker": {"colorbar": {"outlinewidth": 0, "ticks": ""}}, "type": "scattercarpet"}], "scattergeo": [{"marker": {"colorbar": {"outlinewidth": 0, "ticks": ""}}, "type": "scattergeo"}], "scattergl": [{"marker": {"line": {"color": "#283442"}}, "type": "scattergl"}], "scattermapbox": [{"marker": {"colorbar": {"outlinewidth": 0, "ticks": ""}}, "type": "scattermapbox"}], "scatterpolar": [{"marker": {"colorbar": {"outlinewidth": 0, "ticks": ""}}, "type": "scatterpolar"}], "scatterpolargl": [{"marker": {"colorbar": {"outlinewidth": 0, "ticks": ""}}, "type": "scatterpolargl"}], "scatterternary": [{"marker": {"colorbar": {"outlinewidth": 0, "ticks": ""}}, "type": "scatterternary"}], "surface": [{"colorbar": {"outlinewidth": 0, "ticks": ""}, "colorscale": [[0.0, "#0d0887"], [0.1111111111111111, "#46039f"], [0.2222222222222222, "#7201a8"], [0.3333333333333333, "#9c179e"], [0.4444444444444444, "#bd3786"], [0.5555555555555556, "#d8576b"], [0.6666666666666666, "#ed7953"], [0.7777777777777778, "#fb9f3a"], [0.8888888888888888, "#fdca26"], [1.0, "#f0f921"]], "type": "surface"}], "table": [{"cells": {"fill": {"color": "#506784"}, "line": {"color": "rgb(17,17,17)"}}, "header": {"fill": {"color": "#2a3f5f"}, "line": {"color": "rgb(17,17,17)"}}, "type": "table"}]}, "layout": {"annotationdefaults": {"arrowcolor": "#f2f5fa", "arrowhead": 0, "arrowwidth": 1}, "autotypenumbers": "strict", "coloraxis": {"colorbar": {"outlinewidth": 0, "ticks": ""}}, "colorscale": {"diverging": [[0, "#8e0152"], [0.1, "#c51b7d"], [0.2, "#de77ae"], [0.3, "#f1b6da"], [0.4, "#fde0ef"], [0.5, "#f7f7f7"], [0.6, "#e6f5d0"], [0.7, "#b8e186"], [0.8, "#7fbc41"], [0.9, "#4d9221"], [1, "#276419"]], "sequential": [[0.0, "#0d0887"], [0.1111111111111111, "#46039f"], [0.2222222222222222, "#7201a8"], [0.3333333333333333, "#9c179e"], [0.4444444444444444, "#bd3786"], [0.5555555555555556, "#d8576b"], [0.6666666666666666, "#ed7953"], [0.7777777777777778, "#fb9f3a"], [0.8888888888888888, "#fdca26"], [1.0, "#f0f921"]], "sequentialminus": [[0.0, "#0d0887"], [0.1111111111111111, "#46039f"], [0.2222222222222222, "#7201a8"], [0.3333333333333333, "#9c179e"], [0.4444444444444444, "#bd3786"], [0.5555555555555556, "#d8576b"], [0.6666666666666666, "#ed7953"], [0.7777777777777778, "#fb9f3a"], [0.8888888888888888, "#fdca26"], [1.0, "#f0f921"]]}, "colorway": ["#636efa", "#EF553B", "#00cc96", "#ab63fa", "#FFA15A", "#19d3f3", "#FF6692", "#B6E880", "#FF97FF", "#FECB52"], "font": {"color": "#f2f5fa"}, "geo": {"bgcolor": "rgb(17,17,17)", "lakecolor": "rgb(17,17,17)", "landcolor": "rgb(17,17,17)", "showlakes": true, "showland": true, "subunitcolor": "#506784"}, "hoverlabel": {"align": "left"}, "hovermode": "closest", "mapbox": {"style": "dark"}, "paper_bgcolor": "rgb(17,17,17)", "plot_bgcolor": "rgb(17,17,17)", "polar": {"angularaxis": {"gridcolor": "#506784", "linecolor": "#506784", "ticks": ""}, "bgcolor": "rgb(17,17,17)", "radialaxis": {"gridcolor": "#506784", "linecolor": "#506784", "ticks": ""}}, "scene": {"xaxis": {"backgroundcolor": "rgb(17,17,17)", "gridcolor": "#506784", "gridwidth": 2, "linecolor": "#506784", "showbackground": true, "ticks": "", "zerolinecolor": "#C8D4E3"}, "yaxis": {"backgroundcolor": "rgb(17,17,17)", "gridcolor": "#506784", "gridwidth": 2, "linecolor": "#506784", "showbackground": true, "ticks": "", "zerolinecolor": "#C8D4E3"}, "zaxis": {"backgroundcolor": "rgb(17,17,17)", "gridcolor": "#506784", "gridwidth": 2, "linecolor": "#506784", "showbackground": true, "ticks": "", "zerolinecolor": "#C8D4E3"}}, "shapedefaults": {"line": {"color": "#f2f5fa"}}, "sliderdefaults": {"bgcolor": "#C8D4E3", "bordercolor": "rgb(17,17,17)", "borderwidth": 1, "tickwidth": 0}, "ternary": {"aaxis": {"gridcolor": "#506784", "linecolor": "#506784", "ticks": ""}, "baxis": {"gridcolor": "#506784", "linecolor": "#506784", "ticks": ""}, "bgcolor": "rgb(17,17,17)", "caxis": {"gridcolor": "#506784", "linecolor": "#506784", "ticks": ""}}, "title": {"x": 0.05}, "updatemenudefaults": {"bgcolor": "#506784", "borderwidth": 0}, "xaxis": {"automargin": true, "gridcolor": "#283442", "linecolor": "#506784", "ticks": "", "title": {"standoff": 15}, "zerolinecolor": "#283442", "zerolinewidth": 2}, "yaxis": {"automargin": true, "gridcolor": "#283442", "linecolor": "#506784", "ticks": "", "title": {"standoff": 15}, "zerolinecolor": "#283442", "zerolinewidth": 2}}}, "title": {"text": "\u91cd\u75c7\u8005\u6570\u3068\u5165\u9662\u8005\u65702021-04-23"}, "width": 700, "xaxis": {"anchor": "y", "domain": [0.0, 1.0], "title": {"text": "\u91cd\u75c7\u8005\u6570 / 100\u4e07\u4eba"}, "type": "log"}, "yaxis": {"anchor": "x", "domain": [0.0, 1.0], "title": {"text": "\u5165\u9662\u8005\u6570 / 100\u4e07\u4eba"}, "type": "log"}},                        {"responsive": true}                    )                };                            </script>        </div>
